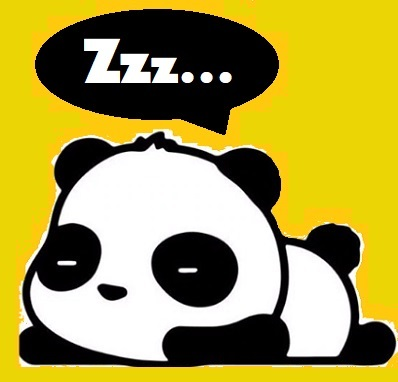
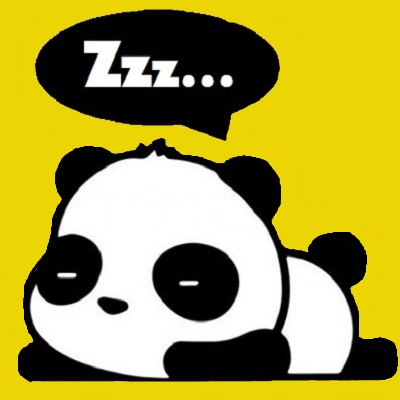
fixing login and image

diff --git a/src/app/authentication/authentication.page.html b/src/app/authentication/authentication.page.html
@@ -9,20 +9,20 @@
         <ion-text style="font-size: 50px">ONIRO</ion-text>
       </ion-col>
     </ion-row>
-    <ion-row justify-content-center style="height: 200px">
-      <ion-col size="8" offset="2">
+    <ion-row justify-content-center style="height: 230px">
+      <ion-col size-md="6" offset-md="3">
           <ion-thumbnail class="login">
               <img src="assets/image/panda-login.jpg">
           </ion-thumbnail>
       </ion-col>
     </ion-row>
-    <ion-row justify-content-center style="height: 80px">
-        <ion-col size="8" offset="2">
+    <ion-row style="height: 90px">
+        <ion-col size-md="6" offset-md="3">
             <ion-button class="auth-btn" expand="block" [routerLink]="['/', 'login']">LOGIN</ion-button>
         </ion-col>
       </ion-row>
-      <ion-row justify-content-center style="height: 80px">
-          <ion-col size="8" offset="2">
+      <ion-row style="height: 90px">
+          <ion-col size-md="6" offset-md="3">
               <ion-button class="auth-btn" expand="block" [routerLink]="['/', 'register']">REGISTER</ion-button>
           </ion-col>
         </ion-row>

diff --git a/src/app/register/register.page.html b/src/app/register/register.page.html
@@ -76,7 +76,7 @@
               <ion-input type="number" ngModel name="idAlbo" required #idAlboCtrl="ngModel" [disabled]="isDisabled">
               </ion-input>
             </ion-item>
-            <ion-item *ngIf="!idAlboCtrl.valid && idAlboCtrl.touched" lines="none">
+            <ion-item *ngIf="!idAlboCtrl.valid && idAlboCtrl.touched && !isDisabled" lines="none">
               <ion-label class="valid-label">
                 Inserire un ID corretto
               </ion-label>

diff --git a/src/app/login/login.page.html b/src/app/login/login.page.html
@@ -40,7 +40,7 @@
           </ion-col>
         </ion-row>
         <ion-row>
-          <ion-col>
+          <ion-col size-sm="6" offset-sm="3">
             <ion-button expand="block" type="submit" (click)="onLogin()" [disabled]="!f.valid">
                 <ion-icon name="person" slot="end"></ion-icon>
               Login

diff --git a/src/app/login/login.page.scss b/src/app/login/login.page.scss
@@ -10,8 +10,7 @@
 ion-button{
     height: 45px;
     font-size: 25px;
-    position: relative;
-    margin-top: 80px;
-    margin-left: 25%;
-    margin-right: 25%;
+    //margin-top: 80px;
+    //margin-left: 25%;
+    //margin-right: 25%;
 }
